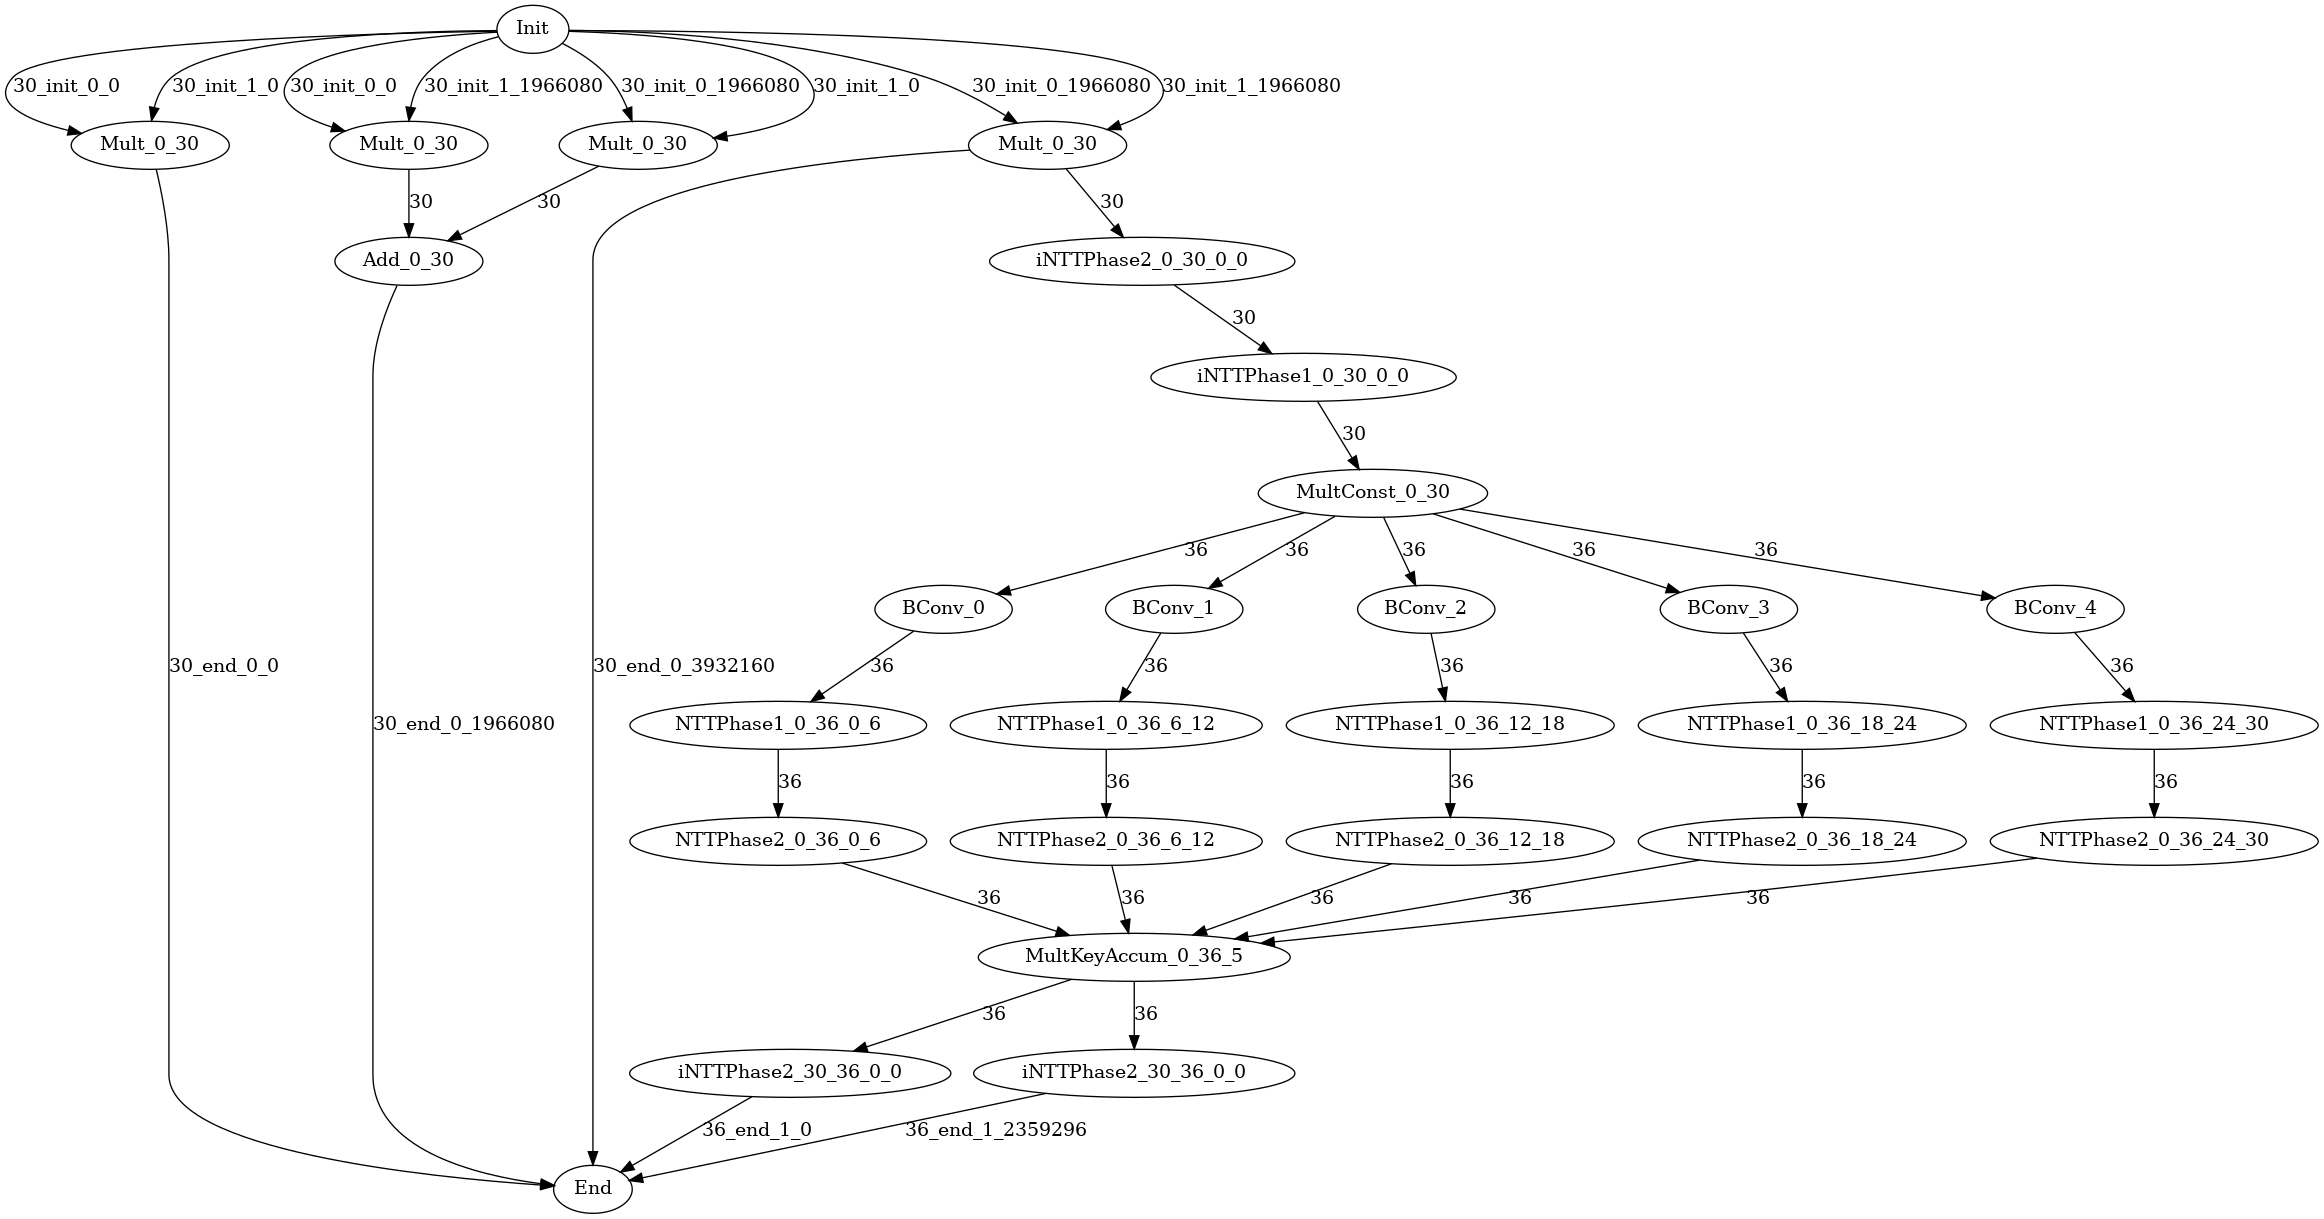
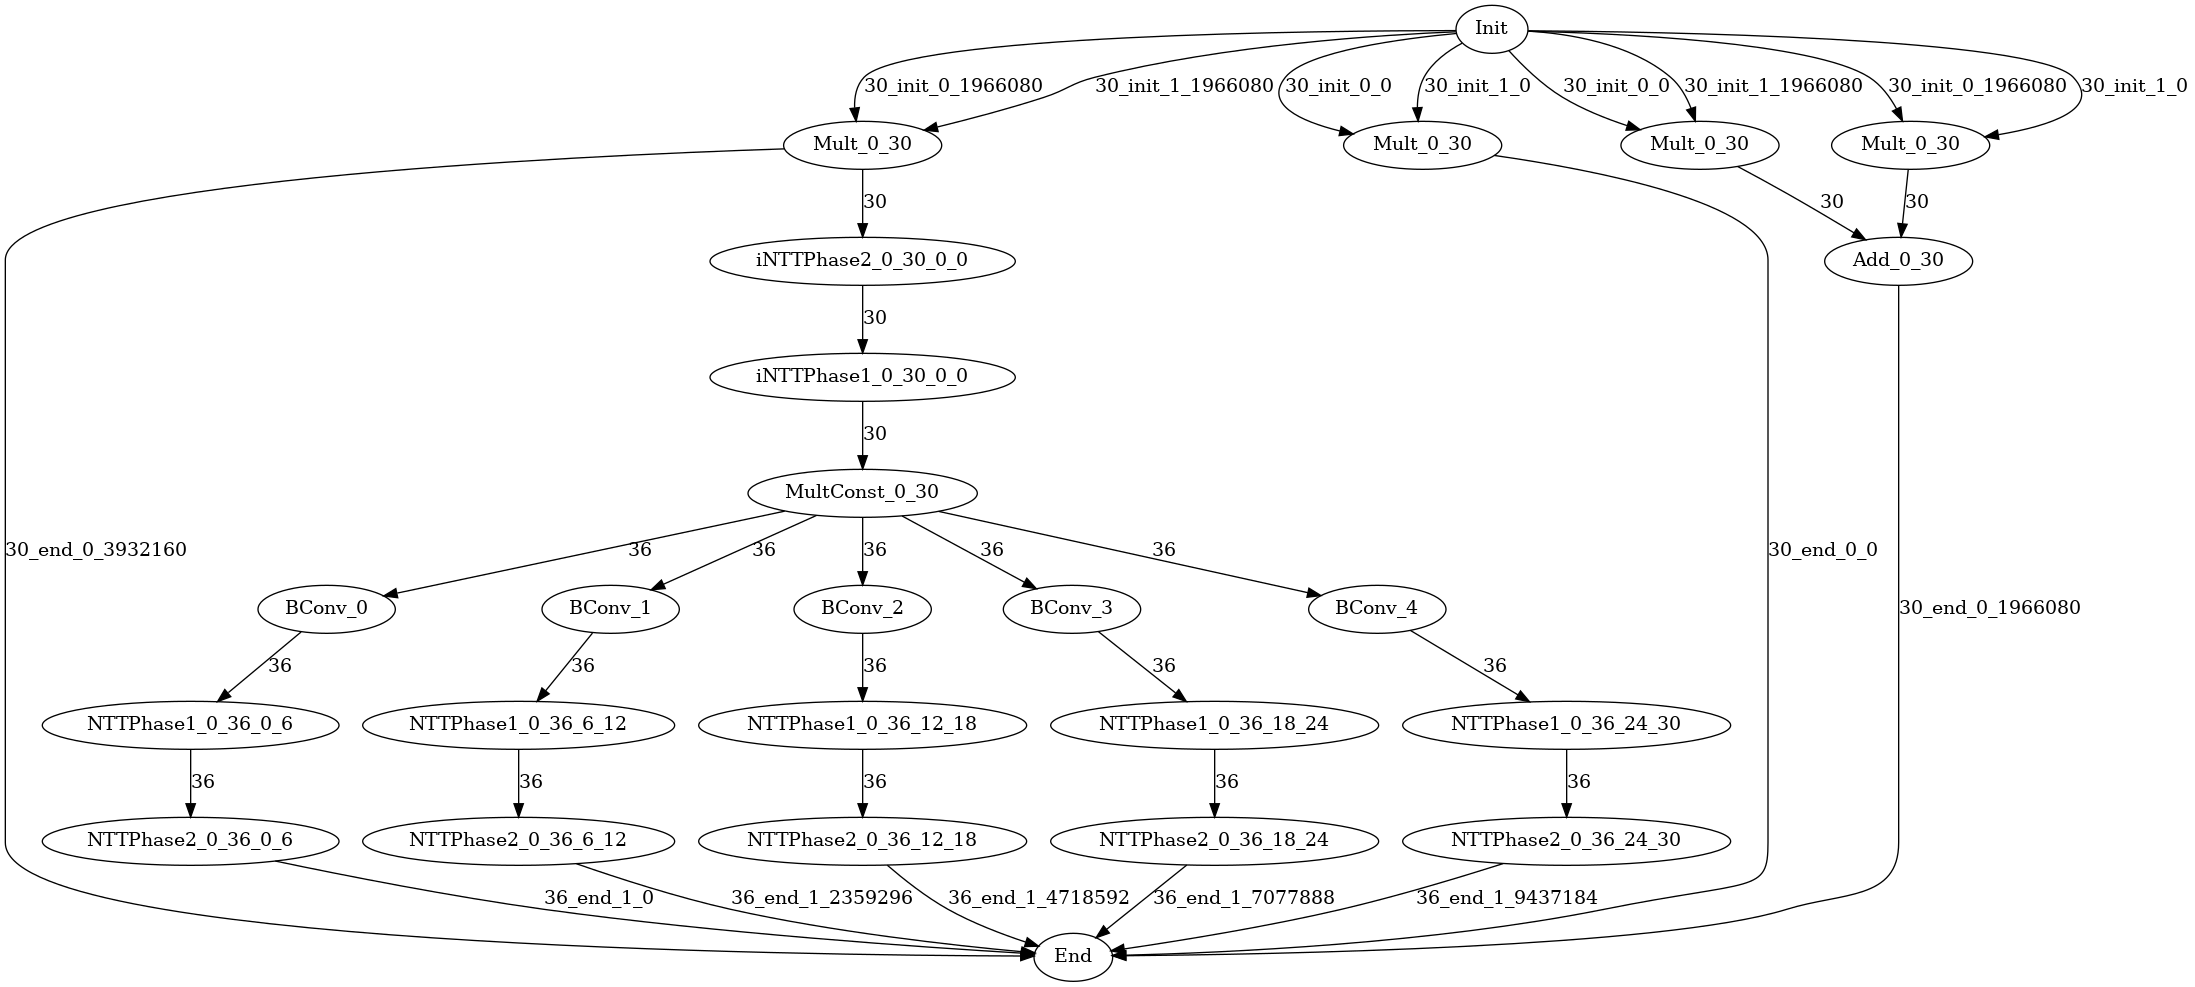
improve share edge judgement

diff --git a/example/ckks_HMult/example.py b/example/ckks_HMult/example.py
@@ -64,7 +64,10 @@ for beta_idx in range(prm.get_beta(prm.L - 1)):
         exclude_end=prm.alpha * (beta_idx + 1),
     )
     accum_list.append(nttp2_after_bconv)
+    res = pf.end(nttp2_after_bconv, 1, prm.N * (prm.L + prm.K) * beta_idx)
+    target.append(res)
 
+"""
 accum = pf.mul_key_accum(accum_list, "MultKeyAccum", start_limb=0, end_limb=prm.L + prm.K, beta=prm.get_beta(prm.L - 1))
 inttp2_ax = pf.ntt(
     accum,
@@ -108,7 +111,6 @@ inttp2_bx = pf.ntt(
 # )
 res_ax = pf.end(inttp2_ax, 1, 0)
 res_bx = pf.end(inttp2_bx, 1, prm.N * (prm.L + prm.K))
-"""
 res_ax = pf.end(accum, 1, 0)
 res_bx = pf.end(accum, 1, prm.N * (prm.L + prm.K))
 """
@@ -119,8 +121,8 @@ res_bxbx = pf.end(mult_bxbx, 0, prm.N * prm.L * 2)
 target.append(res_axax)
 target.append(res_axbx)
 target.append(res_bxbx)
-target.append(res_ax)
-target.append(res_bx)
+# target.append(res_ax)
+# target.append(res_bx)
 
 # Compile
 current_dir = os.path.dirname(os.path.abspath(__file__))

diff --git a/polyfhe/engine/pass/check_edge_overwrite_pass.cpp b/polyfhe/engine/pass/check_edge_overwrite_pass.cpp
@@ -14,6 +14,9 @@ bool CheckEdgeOverwritePass::run_on_graph(
     for (auto sgraph : subgraphs) {
         for (auto node : sgraph->get_nodes()) {
             for (auto outedge : node->get_out_edges()) {
+                if (outedge->get_shared_counter() > 0) {
+                    continue;
+                }
                 auto dst_node = outedge->get_dst();
                 if (dst_node && dst_node->get_out_edges().size() == 1) {
                     auto overwrite_to = dst_node->get_out_edges()[0];
